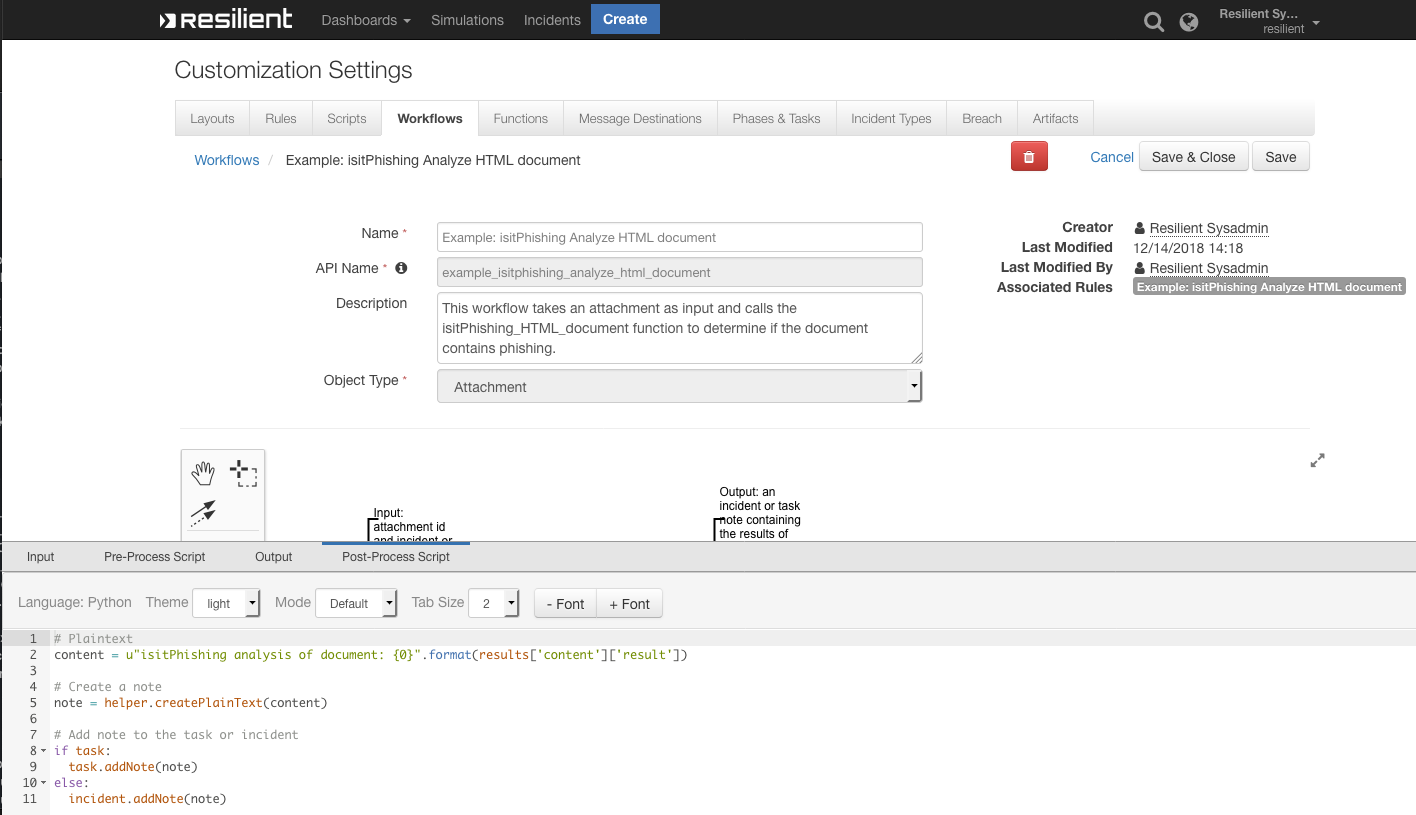
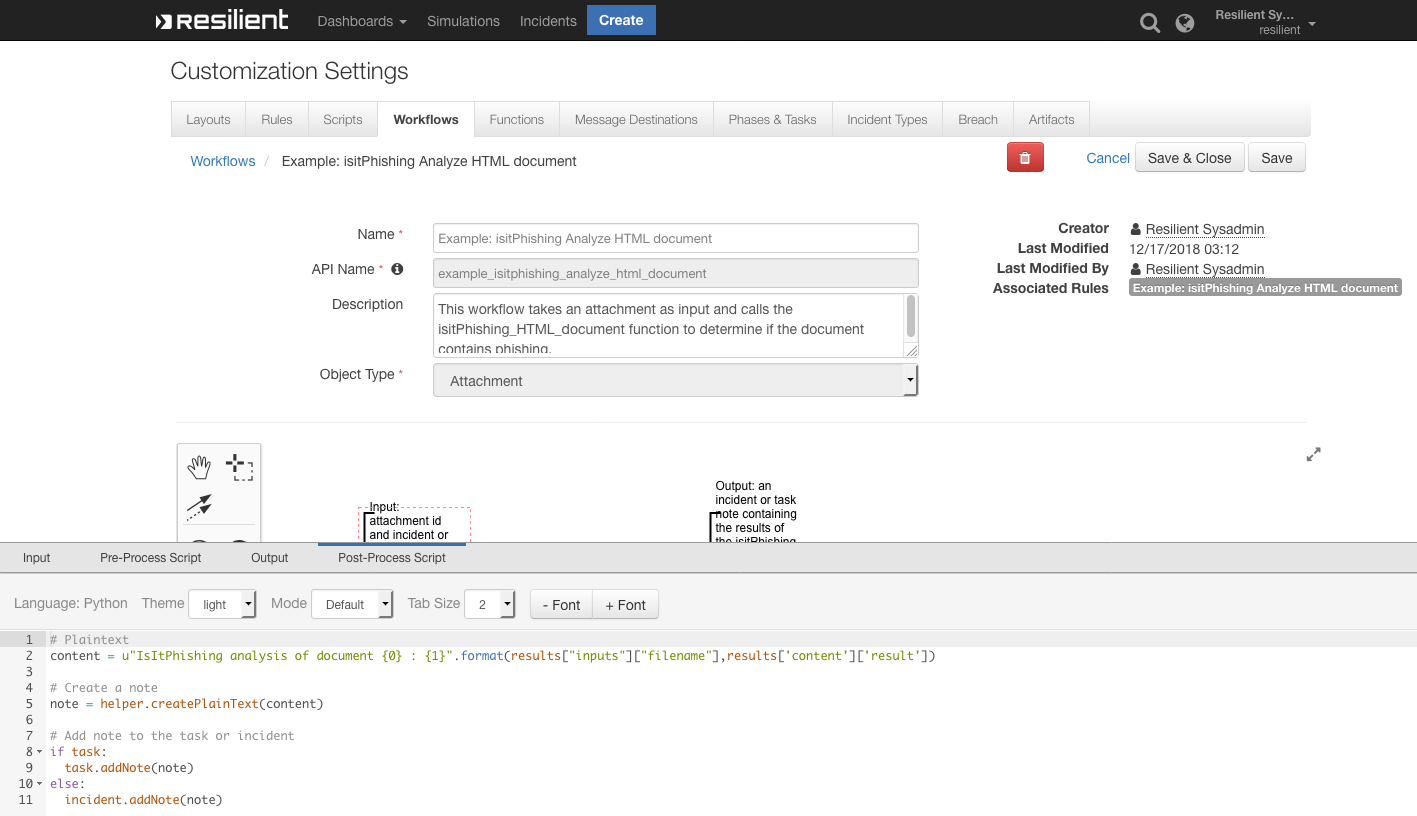
INT-791 print the document filename in note in the html_document post processor script

diff --git a/fn_isitPhishing/fn_isitPhishing/util/customize.py b/fn_isitPhishing/fn_isitPhishing/util/customize.py
@@ -51,7 +51,7 @@ def customization_data(client=None):
     yield ImportDefinition(u"""
[7 lines of base64/hex data omitted]
@@ -62,54 +62,54 @@ ImMzZjBlM2VkLTIxZTEtNGQ1My1hZmZiLWZlNWNhMzMwOGNjYSIsICJvcGVyYXRpb25zIjogW10s
[101 lines of base64/hex data omitted]
@@ -146,7 +146,7 @@ aW9uIjogIlRoaXMgd29ya2Zsb3cgdGFrZXMgYW4gYXJ0aWZhY3QgYXMgaW5wdXQgYW5kIGNhbGxz
[8 lines of base64/hex data omitted]
@@ -170,7 +170,7 @@ XzBldHdjYzJcIiBuYW1lPVwiaXNpdFBoaXNoaW5nIFVSTFwiIHJlc2lsaWVudDp0eXBlPVwiZnVu
[8 lines of base64/hex data omitted]
@@ -243,7 +243,7 @@ YXRpb25fMGQ1ZnRtZVwiIGlkPVwiQXNzb2NpYXRpb25fMGQ1ZnRtZV9kaVwiPjxvbWdkaTp3YXlw
[8 lines of base64/hex data omitted]
@@ -251,7 +251,7 @@ aW9uIjogIlRoaXMgd29ya2Zsb3cgdGFrZXMgYW4gYXR0YWNobWVudCBhcyBpbnB1dCBhbmQgY2Fs
[8 lines of base64/hex data omitted]
@@ -274,128 +274,128 @@ dmljZVRhc2sgaWQ9XCJTZXJ2aWNlVGFza18wN3VoaTdjXCIgbmFtZT1cImlzaXRQaGlzaGluZyBI
[125 lines of base64/hex data omitted]
-IFtdfV19XX0=
[123 lines of base64/hex data omitted]
 """
     )

diff --git a/fn_isitPhishing/fn_isitPhishing/components/isitphishing_html_document.py b/fn_isitPhishing/fn_isitPhishing/components/isitphishing_html_document.py
@@ -10,7 +10,7 @@ import requests
 import logging
 from resilient_circuits import ResilientComponent, function, handler, StatusMessage, FunctionResult, FunctionError
 from resilient_lib.components.resilient_common import get_file_attachment, validate_fields
-from fn_isitPhishing.lib.isitphishing_util import get_license_key
+from fn_isitPhishing.lib.isitphishing_util import get_license_key, get_filename_attachment
 import fn_isitPhishing.util.selftest as selftest
 
 CONFIG_DATA_SECTION = 'fn_isitPhishing'
@@ -80,6 +80,7 @@ class FunctionComponent(ResilientComponent):
 
             # Get the attachment data
             data = get_file_attachment(client, incident_id, artifact_id, task_id, attachment_id)
+            filename = get_filename_attachment(client, incident_id, task_id, attachment_id)
 
             # Base64 encode the document string and build payload.
             base64encoded_doc = base64.b64encode(data).decode("ascii")
@@ -105,7 +106,8 @@ class FunctionComponent(ResilientComponent):
                 "inputs": {"incident_id": incident_id,
                            "task_id": task_id,
                            "attachment_id": attachment_id,
-                           "artifact_id": artifact_id}
+                           "artifact_id": artifact_id,
+                           "filename": filename}
             }
 
             # Produce a FunctionResult with the results

diff --git a/fn_isitPhishing/fn_isitPhishing/lib/isitphishing_util.py b/fn_isitPhishing/fn_isitPhishing/lib/isitphishing_util.py
@@ -14,3 +14,15 @@ def get_license_key(name, license):
         auth_token = base64.b64encode(bytes(url_key, 'ascii')).decode('ascii')
  
     return auth_token
+
+def get_filename_attachment(client, incident_id, task_id, attachment_id):
+
+    # return the filename of an attachment.
+    if task_id:
+        metadata_uri = "/tasks/{}/attachments/{}".format(task_id, attachment_id)
+    else:
+        metadata_uri = "/incidents/{}/attachments/{}".format(incident_id, attachment_id)
+
+    metadata = client.get(metadata_uri)
+
+    return metadata["name"]
